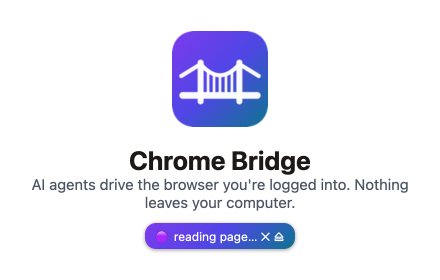
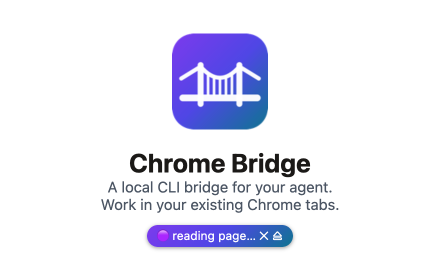
docs: ground positioning in current alternatives — remove unsupported claims
Replace stale Playwright and Claude comparisons with sourced workflow trade-offs. Clarify agent and website data transmission in the privacy policy, listing copy, and promotional tile; preserve setup instructions and extension behavior. Found while reviewing promotion materials and the live LinkedIn launch post. Validated with 332 self-test checks and a 440x280 browser-rendered tile.

diff --git a/docs/store/tile.html b/docs/store/tile.html
@@ -11,7 +11,7 @@
   <img src="../../extension/icons/icon128.png" alt="">
   <div class="text">
     <div class="name">Chrome Bridge</div>
-    <div class="tag">AI agents drive the browser you're logged into. Nothing leaves your computer.</div>
+    <div class="tag">A local CLI bridge for your agent.<br>Work in your existing Chrome tabs.</div>
     <div id="pill">🟣 reading page… ✕ ⏏</div>
   </div>
 </div>

diff --git a/README.md b/README.md
@@ -6,7 +6,9 @@
 
 [![MIT license](https://img.shields.io/badge/license-MIT-blue.svg)](LICENSE) [![Node ≥ 18](https://img.shields.io/badge/node-%E2%89%A5%2018-339933)](https://nodejs.org) [![zero dependencies](https://img.shields.io/badge/dependencies-0-brightgreen)](package.json)
 
-Let **any AI agent** drive the Chrome you're already using: your real profile, already logged in, with your open tabs, cookies and SSO. It's one small extension plus one zero-dependency Node CLI. Anything that can run a shell command can use it, with no separate browser and no MCP server to configure. Every tab the agent touches wears a 🟣 pill that shows what it's doing.
+A small, open-source CLI bridge for **shell-capable AI agents** to work in the Chrome you're already using: your open tabs, logged-in sessions and SSO. One Chrome extension connects to a local Node server and CLI with no third-party runtime dependencies. No separate browser or MCP server is required. Driven tabs show a 🟣 pill with the current action and its history.
+
+Use it to inspect a page, check a user flow, fill a form, or investigate network and performance behavior. The bridge connection is local; **your chosen AI agent may send received page content to its model provider**. Existing-browser access and CLI automation are not exclusive to Chrome Bridge; [compare the trade-offs](#how-it-compares).
 
 ![a driven tab in motion — the 🟣 pill narrates each action, a purple frame lights up while a command runs, the pointer flashes where the agent clicks](docs/demo.gif)
 
@@ -119,20 +121,20 @@ table "1. Playa Phone (playaphone.com) 122 points by cutoff 1 hour…" @e14
 
 Writing your own agent loop? Skip the CLI and send JSON to `POST http://127.0.0.1:9333/cmd`, for example `{"type": "snap", "urlMatch": "…"}`.
 
-## What people use it for
+## Example workflows
 
 - "Check my dashboard every morning and post the change to Slack." A cron-launched agent uses the tab that's already logged in. If a login wall shows up, `wait --human` hands the tab to you.
 - Fill a CMS from a CSV without logging in again.
 - Compare a staging build against the Figma mockup. [design-eye.md](design-eye.md) is the checklist, and there's an 8px alignment grid overlay.
 - See a page in a mobile view without resizing your window: `emulate <tab> 390 844 mobile`.
-- Anything where a fresh browser gets stuck and yours doesn't: SSO, bot checks, internal dashboards behind a VPN.
+- Work in an existing authenticated session, including SSO and internal dashboards behind a VPN. This does not bypass login challenges or anti-bot restrictions.
 
 A real run, checked live on GitHub: [recipes/github.com.md](recipes/github.com.md) sets a repo's social preview image.
 
 ## You stay in control
 
 - **Every tab the agent touches wears a 🟣 pill**, including tabs it only reads. The pill shows what's happening right now (`🟣 taking screenshot…`) and keeps a history of past actions. Driven tabs also join a 🟣 tab group, which a page can't fake.
-- **⏏ on the pill disconnects the agent from that tab.** This is enforced: the bridge refuses every further command on that tab until the agent takes it back with `mark`, and the agent is told to ask you first.
+- **⏏ on the pill disconnects the agent from that tab.** The bridge refuses subsequent commands until an explicit `mark`; the agent is instructed to ask you before reclaiming it. An action already running may still finish. This is a workflow control, not a security boundary against a malicious local agent.
 - **The toolbar popup releases the current tab, or every agent tab at once.**
 - **`node cli.mjs watch`** prints every command live in your terminal.
 
@@ -140,22 +142,20 @@ A real run, checked live on GitHub: [recipes/github.com.md](recipes/github.com.m
 
 ## How it compares
 
-Checked 2026-09-12 against each tool's own docs. "—" means the tool doesn't list that feature.
+Based on the linked official documentation, checked 2026-11-05. These are workflow trade-offs, not a ranking or a benchmark.
 
-| | chrome-bridge | playwright-mcp | Chrome DevTools MCP | Browser MCP / mcp-chrome | Claude for Chrome |
-|---|---|---|---|---|---|
-| Drives your real logged-in Chrome | the only mode | opt-in (extension / debugging-port attach) | opt-in (`--autoConnect`, Chrome 144+) | no — launches its own browser | yes, but only from the Claude app |
-| Needs an MCP-capable client + server config | no | yes | optional (ships a CLI) | yes | n/a |
-| Works with any agent that runs shell commands | yes | MCP clients | MCP clients | MCP clients | Claude app only |
-| You watch and can veto while it runs | 🟣 pill narrating live, action history, one-click disconnect (enforced) | — | — | — | — |
+| Option | Where it fits |
+|---|---|
+| **Chrome Bridge** | A small, MIT-licensed extension plus local Node server/CLI with no third-party runtime dependencies. Designed around existing Chrome tabs, shell commands, scoped/diff snapshots, in-page action narration, and explicit profile routing. |
+| **[Playwright extension + MCP](https://github.com/microsoft/playwright/tree/main/packages/extension#readme)** | Also connects to existing logged-in tabs. Its documented controls include connection approval, per-client tab groups and disconnection. It is a valid alternative for an MCP-based workflow. |
+| **[Playwright CLI + skills](https://github.com/microsoft/playwright-cli)** | Provides shell-based browser automation for coding agents without MCP. It supports browser sessions and persistent profiles. Playwright and its CLI are also open source (Apache-2.0). |
+| **[Claude in Chrome + Claude Code](https://code.claude.com/docs/en/chrome)** | Integrates browser testing, form filling and debugging into Claude Code, including its VS Code extension, and shares browser login state. Its documented prerequisites include a direct Anthropic plan and sign-in. |
 
-### chrome-bridge vs Playwright and playwright-mcp
+Choose Chrome Bridge if its command interface, visible action feedback and small dependency footprint suit your workflow. Agent independence is a difference from Anthropic's integration, not from Playwright. Logged-in browser access, accessibility snapshots, open source, CLI operation and human controls are not unique claims.
 
-Playwright drives a browser it launched, with a profile of its own, so the agent starts every session logged out. Attaching to your own Chrome is possible but opt-in. chrome-bridge borrows Playwright's best idea, accessibility-tree snapshots with element refs, and skips the 40 MB dependency.
+For repeatable regression tests in CI, consider [Playwright Test](https://playwright.dev/docs/intro). Chrome Bridge's interactive checks do not replace a test runner. Its setup still requires an extension, Node and a local server; some sites or commands require human intervention or a visible tab.
 
-### chrome-bridge vs MCP browser bridges, Chrome DevTools MCP, and Claude for Chrome
-
-MCP bridges need an MCP client and a configured server. Chrome DevTools MCP can attach to your profile (`--autoConnect`, Chrome 144+), but it's built for DevTools depth (performance traces, debugging). Claude for Chrome works only from the Claude app and reads pages through screenshots. Cloud browsers like Browserbase don't have your logins.
+There is no published head-to-head benchmark establishing that Chrome Bridge is faster, safer, more reliable or more token-efficient than these alternatives. The demos show capabilities on specific pages, not superiority or universal website compatibility.
 
 ### Chrome 136 broke copying (or reusing) your Chrome profile
 

diff --git a/README.zh-CN.md b/README.zh-CN.md
@@ -4,7 +4,9 @@
 
 [![MIT 许可证](https://img.shields.io/badge/license-MIT-blue.svg)](LICENSE) [![Node ≥ 18](https://img.shields.io/badge/node-%E2%89%A5%2018-339933)](https://nodejs.org) [![零依赖](https://img.shields.io/badge/dependencies-0-brightgreen)](package.json)
 
-让**任何 AI 智能体**驱动你正在使用的 Chrome:你真实的、已登录的配置,包括已打开的标签页、cookie 和 SSO。只需一个小扩展加一个零依赖的 Node CLI。任何能执行 shell 命令的工具都能用它,不需要另起浏览器,也不需要配置 MCP 服务器。智能体触碰的每个标签页都会戴上 🟣 小标签,显示它正在做什么。
+一个小型开源 CLI 桥接器,让**能执行 shell 命令的 AI 智能体**操作你正在使用的 Chrome:已有标签页、登录会话和 SSO。一个 Chrome 扩展连接到本地 Node 服务器和 CLI,没有第三方运行时依赖,不需要另起浏览器或配置 MCP 服务器。被驱动的标签页显示 🟣 小标签,播报当前操作并保留操作历史。
+
+可用于检查页面、验证用户流程、填写表单,或排查网络和性能问题。桥接连接在本地,但**你选择的 AI 智能体可能会把收到的页面内容发送给模型提供商**。复用现有浏览器和 CLI 自动化并非 Chrome Bridge 独有;请参阅[使用取舍](#对比一览)。
 
 ![被驱动标签页的动态演示——🟣 小标签实时播报每一步操作,命令执行时亮起紫色边框,点击处有指针闪烁](docs/demo.gif)
 
@@ -117,20 +119,20 @@ table "1. Playa Phone (playaphone.com) 122 points by cutoff 1 hour…" @e14
 
 自己写智能体循环?可以跳过 CLI,直接向 `POST http://127.0.0.1:9333/cmd` 发送 JSON,例如 `{"type": "snap", "urlMatch": "…"}`。
 
-## 人们用它做什么
+## 示例工作流
 
 - "每天早上看一眼我的仪表盘,把变化发到 Slack。"cron 启动的智能体直接用已登录的标签页。遇到登录墙时,`wait --human` 会把标签页交给你。
 - 从 CSV 填写 CMS,不用重新登录。
 - 对照 Figma 设计稿检查 staging 构建。[design-eye.md](design-eye.md) 是检查清单,还有 8px 对齐网格叠加层。
 - 不调整窗口大小就能看页面的移动端视图:`emulate <tab> 390 844 mobile`。
-- 任何全新浏览器会卡住、而你的浏览器不会的场景:SSO、机器人检测、VPN 后面的内部仪表盘。
+- 在已有登录会话中工作,包括 SSO 和 VPN 后面的内部仪表盘。这不会绕过登录验证或反机器人限制。
 
 一次在 GitHub 上实测的真实运行:[recipes/github.com.md](recipes/github.com.md) 设置仓库的社交预览图。
 
 ## 你始终掌控
 
 - **智能体触碰的每个标签页都戴 🟣 小标签**,只读的标签页也不例外。小标签显示当前正在做什么(`🟣 taking screenshot…`),并保留历史操作记录。被驱动的标签页还会加入 🟣 标签页分组,页面无法伪造它。
-- **小标签上的 ⏏ 会断开智能体对该标签页的控制。** 这是强制执行的:在智能体用 `mark` 重新接管之前,桥接会拒绝它对该标签页的所有命令,而且智能体被要求先征得你的同意。
+- **小标签上的 ⏏ 会断开智能体对该标签页的控制。** 桥接会拒绝后续命令,直到显式执行 `mark`;智能体的操作说明要求重新接管前先征得你的同意。已经开始的操作仍可能完成。这是工作流控制,不是防范恶意本地智能体的安全边界。
 - **工具栏弹窗可以释放当前标签页,或一次释放所有智能体标签页。**
 - **`node cli.mjs watch`** 在终端里实时显示每条命令。
 
@@ -138,22 +140,20 @@ table "1. Playa Phone (playaphone.com) 122 points by cutoff 1 hour…" @e14
 
 ## 对比一览
 
-2026-09-12 依据各工具自己的文档核对。"—" 表示该工具未列出此能力。
+依据下方链接的官方文档核对于 2026-11-05。这是工作流取舍,不是排名或性能基准。
 
-| | chrome-bridge | playwright-mcp | Chrome DevTools MCP | Browser MCP / mcp-chrome | Claude for Chrome |
-|---|---|---|---|---|---|
-| 驱动你真实登录的 Chrome | 唯一模式 | 需手动开启(扩展 / 调试端口挂载) | 需手动开启(`--autoConnect`,Chrome 144+) | 不能——启动自己的浏览器 | 能,但只能在 Claude 应用里 |
-| 需要支持 MCP 的客户端和服务器配置 | 不需要 | 需要 | 可选(自带 CLI) | 需要 | 不适用 |
-| 任何能跑 shell 命令的智能体都能用 | 能 | 限 MCP 客户端 | 限 MCP 客户端 | 限 MCP 客户端 | 仅限 Claude 应用 |
-| 运行中可观看、可否决 | 🟣 小标签实时播报、操作历史、一键断开(强制执行) | — | — | — | — |
+| 方案 | 适用场景 |
+|---|---|
+| **Chrome Bridge** | 小型 MIT 开源扩展加本地 Node 服务器/CLI,没有第三方运行时依赖。围绕已有 Chrome 标签页、shell 命令、局部/差量快照、页内操作播报和显式配置路由设计。 |
+| **[Playwright 扩展 + MCP](https://github.com/microsoft/playwright/tree/main/packages/extension#readme)** | 同样能连接已有登录状态的标签页。文档列有连接审批、各客户端独立标签页分组和断开控制。适合采用 MCP 的工作流。 |
+| **[Playwright CLI + skills](https://github.com/microsoft/playwright-cli)** | 为编码智能体提供不依赖 MCP 的 shell 浏览器自动化,支持浏览器会话和持久化配置。Playwright 及其 CLI 同样开源,采用 Apache-2.0 许可证。 |
+| **[Claude in Chrome + Claude Code](https://code.claude.com/docs/en/chrome)** | 在 Claude Code 及其 VS Code 扩展内集成浏览器测试、表单填写和调试,并复用浏览器登录状态。文档列出的前提包括直接订阅 Anthropic 套餐并登录。 |
 
-### chrome-bridge 对比 Playwright 和 playwright-mcp
+如果你喜欢 Chrome Bridge 的命令接口、可见操作反馈和较小的依赖范围,可以选择它。不绑定智能体提供商是它与 Anthropic 集成的区别,不是与 Playwright 的区别。复用登录态、无障碍快照、开源、CLI 和人工控制都不是独有能力。
 
-Playwright 驱动的是它自己启动的浏览器和自己的配置,所以智能体每次都从未登录状态开始。挂载到你自己的 Chrome 是可以的,但需要手动开启。chrome-bridge 借鉴了 Playwright 最好的设计——带元素引用的无障碍树快照——同时省掉了 40 MB 的依赖。
+CI 中可重复执行的回归测试可考虑 [Playwright Test](https://playwright.dev/docs/intro)。Chrome Bridge 的交互式检查不能替代测试运行器。安装仍需扩展、Node 和本地服务器;部分网站或命令需要人工介入或可见标签页。
 
-### chrome-bridge 对比 MCP 浏览器桥、Chrome DevTools MCP 和 Claude for Chrome
-
-MCP 桥需要 MCP 客户端和配置好的服务器。Chrome DevTools MCP 能挂载到你的配置(`--autoConnect`,Chrome 144+),但它的定位是 DevTools 深度(性能 trace、调试)。Claude for Chrome 只能在 Claude 应用里用,靠截图读页面。Browserbase 之类的云端浏览器没有你的登录态。
+目前没有已公布的同条件对比基准证明 Chrome Bridge 比这些替代方案更快、更安全、更可靠或更省 token。演示只展示特定页面上的能力,不代表优于其他工具或兼容所有网站。
 
 ### Chrome 136 破坏了复制(或复用)Chrome 配置的老办法
 

diff --git a/docs/store/listing.md b/docs/store/listing.md
@@ -1,7 +1,7 @@
 # Chrome Web Store listing — canonical copy
 
 Paste-ready text for the Chrome Web Store console (no API for these fields — copy by hand).
-Keep in sync with README.md's pitch sections. Last synced: 2026-10-15 (title gains search head terms — the bare "Chrome Bridge" ties a same-titled rival and store search never surfaced us; the disproved "order of magnitude fewer tokens" claim removed).
+Keep in sync with README.md's pitch sections. Last synced: 2026-11-05 (accurate workflow positioning, setup requirements, and agent/website data boundaries; no unsupported competitor or benchmark claims).
 
 ## Title (= manifest `name`, ships with the extension — not a console field)
 
@@ -13,33 +13,43 @@ AI browser automation via a local server: your agent drives your real logged-in 
 
 ## Detailed description
 
-chrome-bridge is browser automation for AI agents: ANY agent can drive the Chrome you're already using — your open tabs, your logged-in sessions, your SSO. Playwright-style tools drive a browser they launched with a fresh profile; chrome-bridge drives your real browser. That's the only mode.
+Chrome Bridge is a small, open-source CLI bridge for shell-capable AI agents to work in the Chrome you're already using: existing tabs, logged-in sessions and SSO.
 
-GETTING STARTED — 3 steps, under a minute:
+One Chrome extension connects to a local Node.js server and command-line interface with no third-party runtime dependencies. No separate browser or MCP server is required. The extension alone is not the full setup, and your chosen AI service may have its own costs.
+
+WHAT YOU CAN DO
+
+• Inspect a page using accessibility snapshots, scoped to one region or compared with the previous snapshot.
+• Check a user flow, fill a form, and verify the resulting page or server response.
+• Inspect network requests, console output, layout measurements and page-performance signals.
+• Use screenshots, mobile emulation and trusted input when a task needs them.
+• Work with a specific existing tab by copying its id:… reference from the extension popup.
+
+VISIBLE BROWSER FEEDBACK
+
+Driven tabs show a purple activity pill, action history and tab group. The pill's release control refuses subsequent commands until an explicit reclaim. An action already running may still finish; this is not an undo button or a security boundary against a malicious local agent.
+
+Multiple Chrome profiles are supported. Ambiguous matches require explicit profile selection. Some sites and commands require a visible tab, human authentication or other intervention. The bridge does not bypass login challenges or guarantee website compatibility.
+
+GETTING STARTED
+
+Requires Chrome 117 or newer, Node.js 18 or newer, and an AI agent that can run local shell commands. Documented setup supports macOS and Linux; Windows setup uses Git Bash.
 
 1. Install this extension.
 2. Click its toolbar button and press "Copy setup prompt for your AI agent".
 3. Paste that text to your agent (Claude Code, Cursor, or any agent that can run shell commands).
 
-The agent does the rest itself: downloads the tiny zero-dependency bridge, starts it, verifies the connection, and runs a no-trace dry run before reporting back. The popup's dot shows when the bridge is ready.
+The agent downloads the bridge, starts the local server and checks the connection. Follow any permission or login prompts yourself. Setup time depends on your environment; the popup indicates when the bridge is connected.
 
-WHAT YOU GET
+Chrome Bridge is free and MIT-licensed. Its focus is an inspectable, command-line workflow with visible browser feedback, not a claim to be faster, safer or more reliable than other automation tools. Interactive checks are not a replacement for a repeatable CI test suite.
 
-• Your agent can read pages, click, fill forms, navigate, screenshot, capture network traffic — in YOUR logged-in browser.
-• AI-first under the hood: the agent reads pages as a compact accessibility tree it can narrow to one region or diff against its last look, instead of re-reading screenshots, and every command is a one-line shell call any agent can run.
-• Full local control: everything runs on 127.0.0.1, nothing leaves your machine. No cloud relay, no account, no telemetry.
-• Built for the human watching: every tab the agent touches wears a 🟣 pill narrating each action in real time, joins a 🟣 tab group, and shows status in the favicon; every action lands in a history you can review; one trusted click on ⏏ rejects the agent from that tab.
-• Point the agent at an exact tab: the toolbar popup copies a tab reference (id:…) that pins every command to that tab.
-• Honest actions: if the page re-sorts under a saved element reference, the action fails loudly instead of clicking the wrong element; a click the app ignored says so instead of faking success; trusted input refuses to fake-fire on a hidden tab; a fill an editor's autosave can't see carries a warning; typing into heavy editors (docs, block editors) is paced and verified.
-• Rich editor savvy: the agent can drop whole structured documents (headings, lists, links) into block editors in one shot — and clear them again, even when the editor owns its content model.
-• No residue: a `doctor` command finds and cleans any leftover markers, and dead-session markers are reaped automatically on browser restart.
-• Multiple Chrome profiles supported — the agent never silently acts in your personal browser when you meant the work one.
-
-Advanced users can also run it from source (git clone) — see the GitHub repo.
+Source, setup and operating manual: https://github.com/siropkin/chrome-bridge
 
 PRIVACY
 
-The extension talks only to a local server on 127.0.0.1 that you (or your agent) start. No data leaves your machine. Full policy: https://raw.githubusercontent.com/siropkin/chrome-bridge/master/PRIVACY.md
+The extension-to-CLI connection is local, through 127.0.0.1. Chrome Bridge does not use a developer-operated cloud relay or collect your browsing data. Your connected AI agent receives page content and may send it to its model provider or other services. Requested browser actions, including form submissions and uploads, can send data to websites.
+
+Use only information and accounts you are authorized to expose to your chosen agent. Full policy: https://raw.githubusercontent.com/siropkin/chrome-bridge/master/PRIVACY.md
 
 (The console's privacy-link checker rejected the github.com/blob/… URL as "not reachable" at v1.26.0 submission — the raw.githubusercontent.com URL passes. Paste the raw one into the console field, exactly, no trailing period.)
 

diff --git a/PRIVACY.md b/PRIVACY.md
@@ -4,7 +4,9 @@ chrome-bridge lets an AI agent or CLI on **your own machine** drive the Chrome b
 
 ## The short version
 
-**Nothing leaves your machine.** The extension talks over a WebSocket to a server that binds to `127.0.0.1` on the same computer. There is no account, no sign-in, no analytics, no telemetry, no third-party service, and no data collected by the developer.
+**The bridge connection is local, not necessarily the entire workflow.** The extension talks over a WebSocket to a server that binds to `127.0.0.1` on the same computer. Chrome Bridge requires no developer-operated account or cloud relay and does not send browsing data or telemetry to the developer.
+
+The connected AI agent receives page content and may send it to its model provider or other services according to its configuration and policies. Browser actions such as form submissions, uploads and page requests can send data to the websites involved. Use only data and accounts you are authorized to expose to your chosen agent and those destinations.
 
 ## What the extension does
 
@@ -23,7 +25,7 @@ chrome-bridge lets an AI agent or CLI on **your own machine** drive the Chrome b
 - `clipboardWrite` — the toolbar popup's copy buttons (copy a tab's `id:` reference, copy the agent setup prompt). The extension never reads your clipboard.
 - `<all_urls>` — the agent must be able to act on any page you point it at; nothing is read or touched until a command names the tab.
 
-All of it stays on `127.0.0.1` — no permission is used to talk to anything off your machine.
+The automation command channel stays on `127.0.0.1`. That does not keep the websites you visit, actions you request, or the connected agent's model calls offline.
 
 ## What is stored
 
@@ -42,10 +44,10 @@ Files you explicitly ask for land where you point them: screenshots (`shot`), pa
 
 ## What is transmitted
 
-Page content from the tabs you drive goes to the local server and to the AI agent or script you connected to it — and nowhere else. It is not uploaded to any server controlled by the developer. If your agent itself sends that content elsewhere, that is between you and your agent.
+The bridge passes page content from the tabs you drive to the local server and the AI agent or script you connected to it. It does not upload that content to a server controlled by the developer. The connected agent may transmit received content to its model provider or other services; review that agent's configuration and privacy policy. Requested browser actions can also transmit information to websites, including the contents of submitted forms or uploaded files.
 
 ## Contact
 
 Questions: [GitHub issues](https://github.com/siropkin/chrome-bridge/issues).
 
-Last updated: 2026-11-03.
+Last updated: 2026-11-05.
